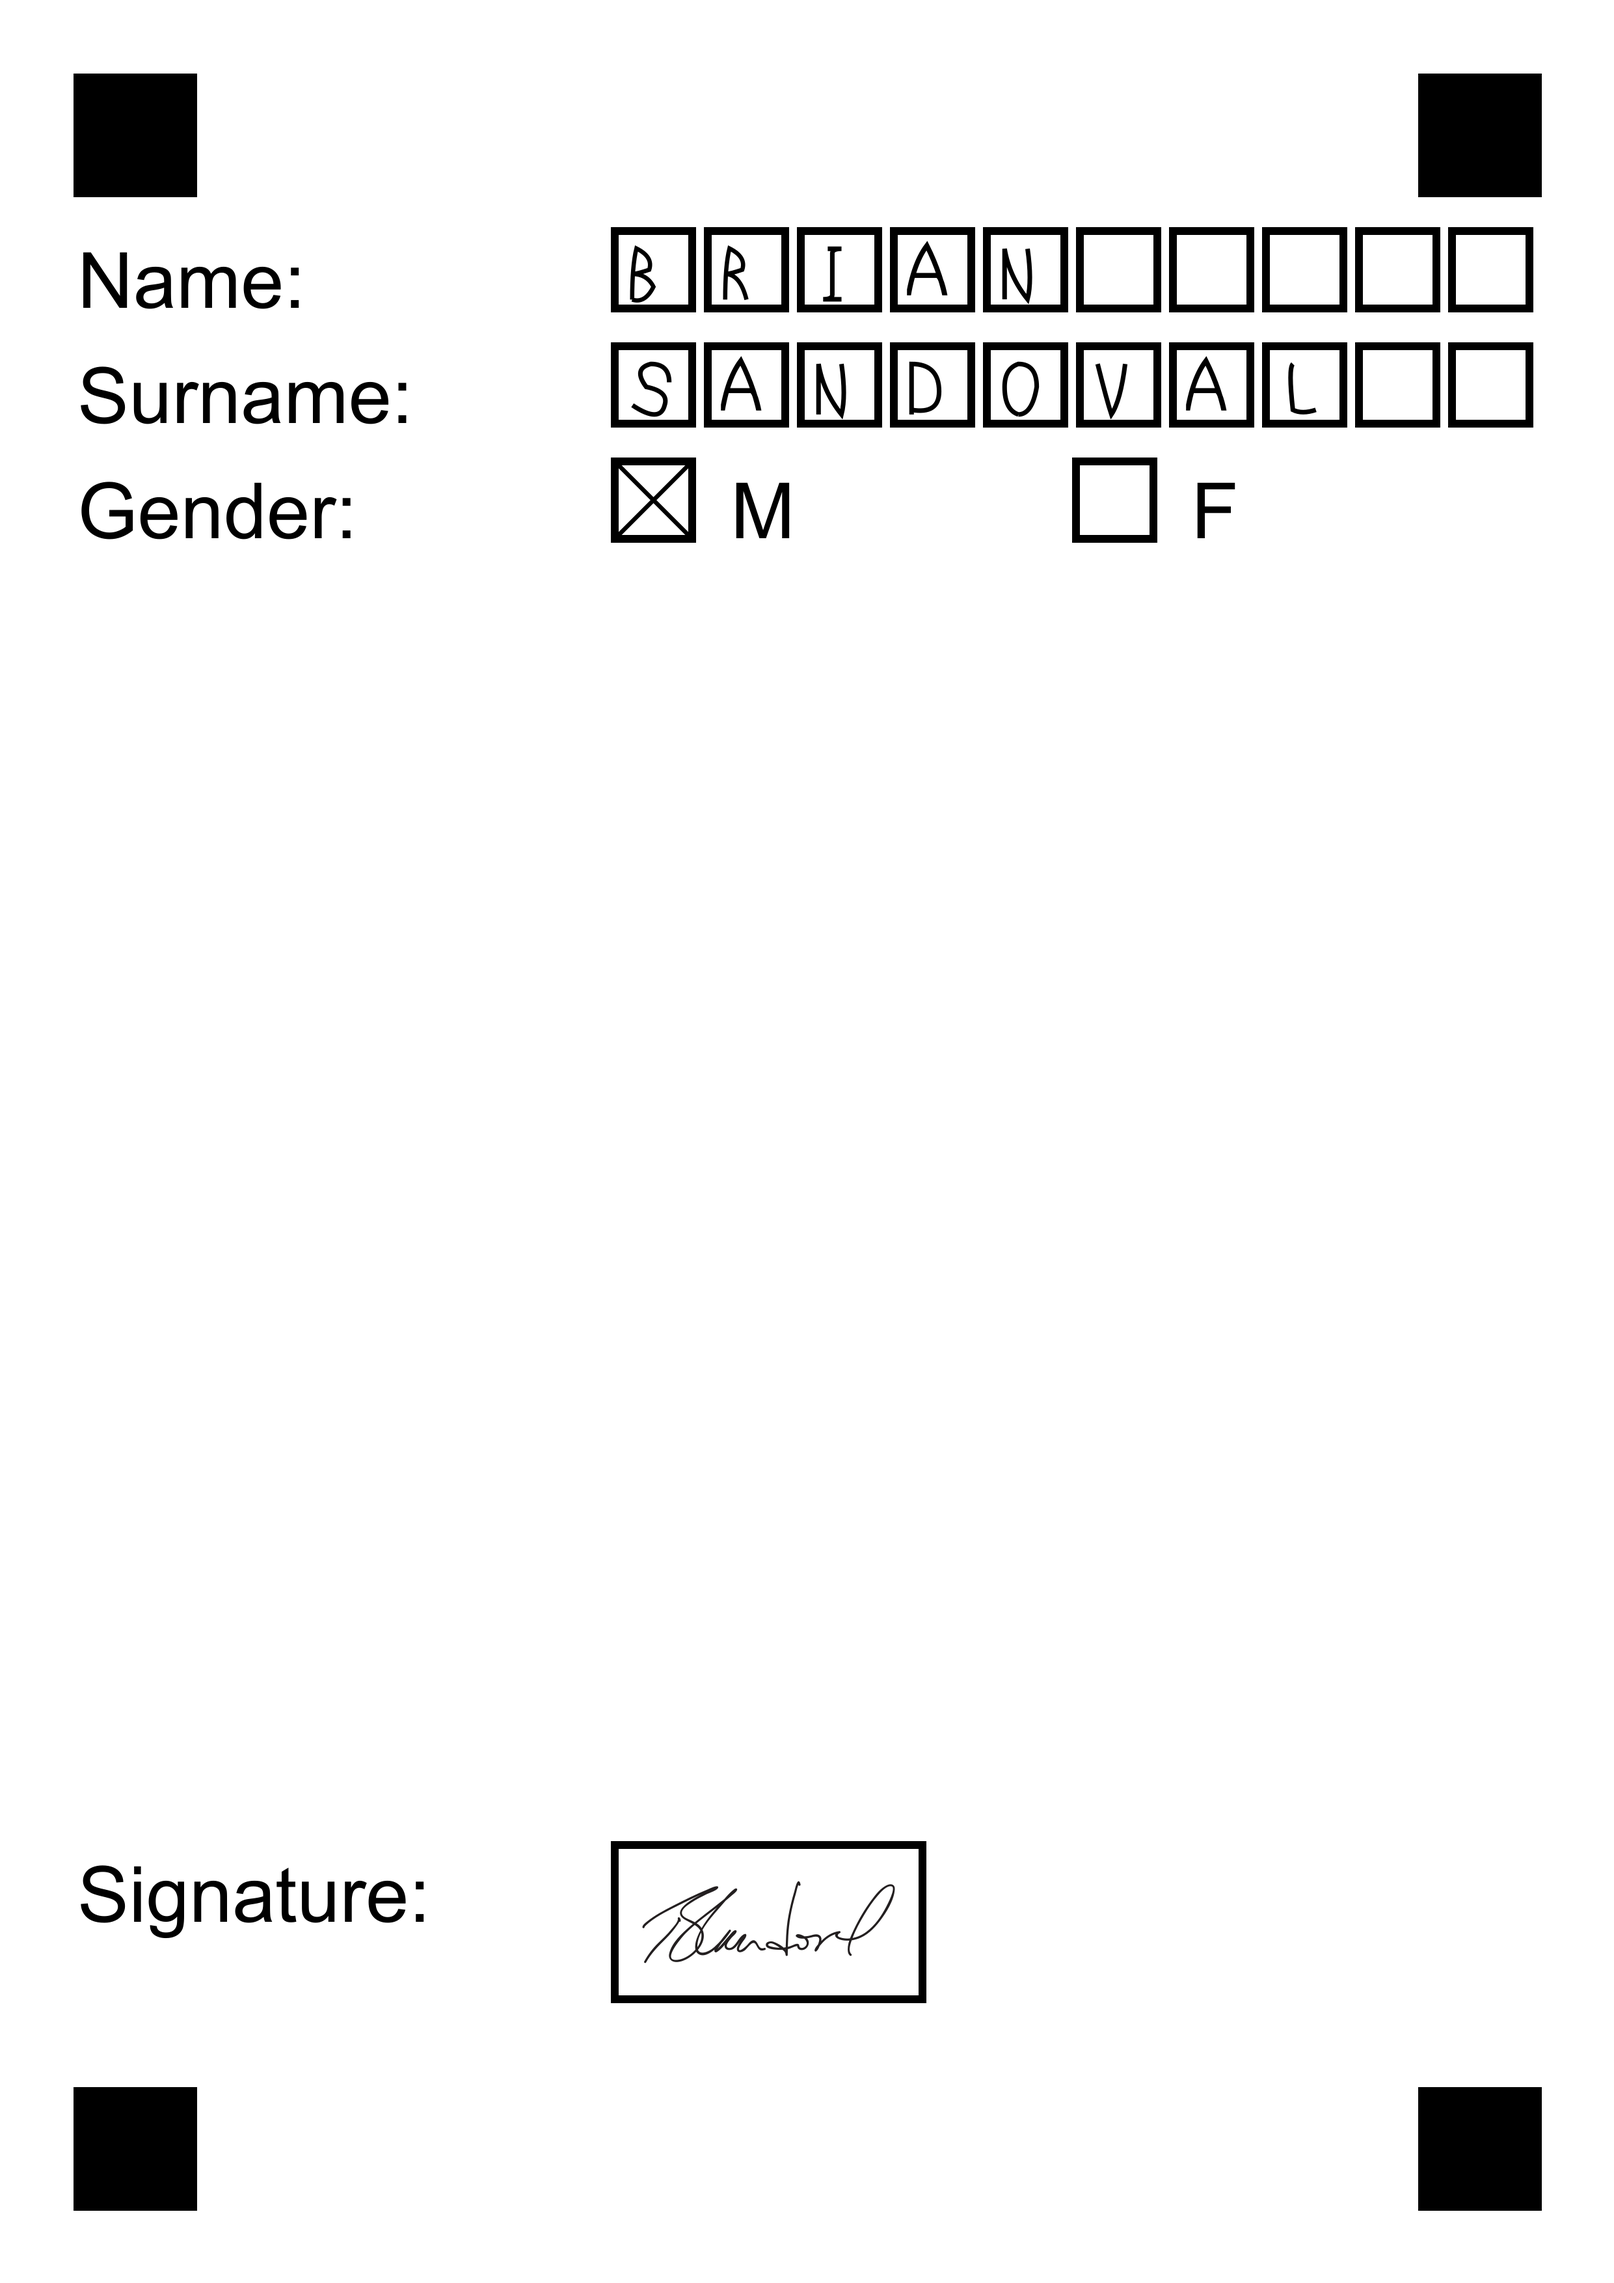
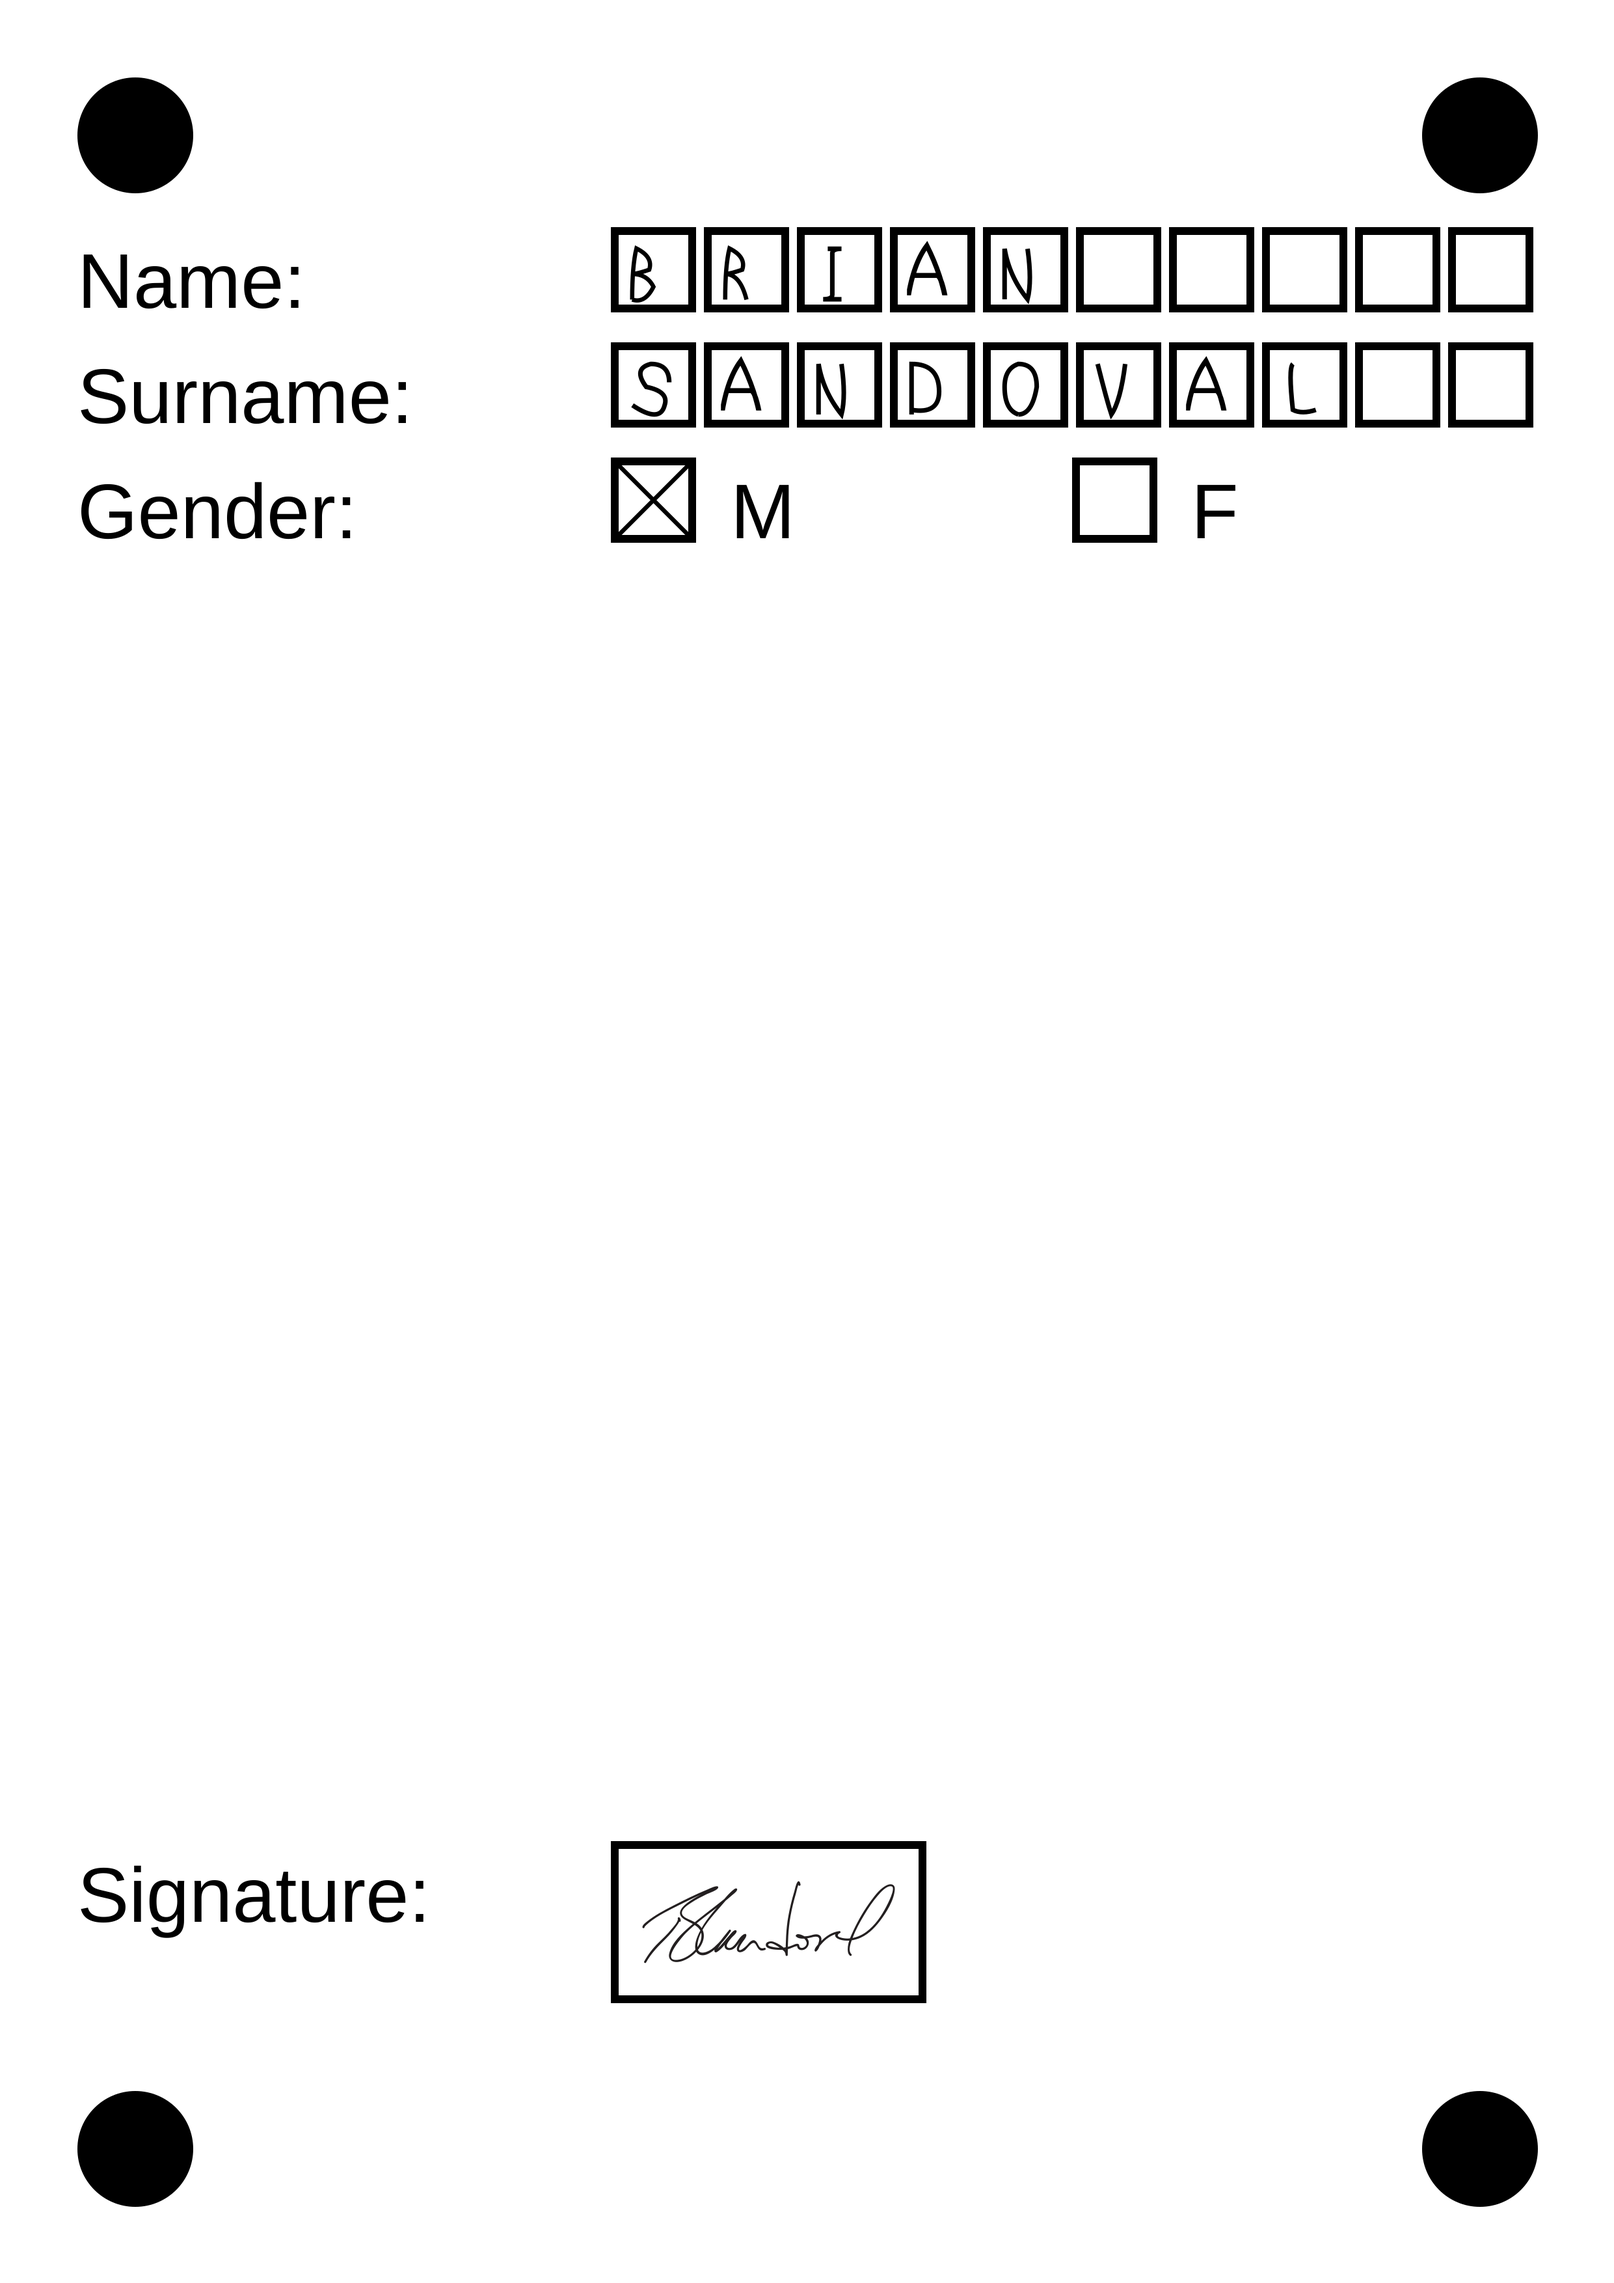
testing with object finding

diff --git a/src/image_handler.ts b/src/image_handler.ts
@@ -1,0 +1,111 @@
+export class ImageHandler {
+    constructor (
+        public width: number,
+        public height: number,
+        public data: Buffer,
+    ) {}
+
+    get_pixel ( x: number, y: number ) {
+        return this.data[x + y * this.width];
+    }
+
+    get_neighbours ( pos: number ) {
+        const ret: Array<number> = [];
+        // if ( pos % this.width > 0 ) {
+        //     ret.push( pos - 1 );
+        // }
+        // if ( pos % this.width < this.width - 1 ) {
+        //     ret.push( pos + 1 );
+        // }
+        // if ( Math.floor( pos / this.width ) > 0 ) {
+        //     ret.push( pos - this.width );
+        // }
+        // if ( Math.floor( pos / this.width ) < this.height - 1 ) {
+        //     ret.push( pos + this.width );
+        // }
+        for ( let dx = -1; dx <= 1; dx++ ) {
+            for ( let dy = -1; dy <= 1; dy++ ) {
+                if ( pos % this.width + dx >= 0 && pos % this.width + dx < this.width ) {
+                    if ( Math.floor( pos / this.width ) + dy >= 0 && Math.floor( pos / this.width ) + dy < this.height ) {
+                        ret.push( pos + dx + dy * this.width );
+                    }
+                }
+            }
+        }
+        return ret;
+    }
+
+    bfs ( pos: number, state: Array<boolean> ) {
+        const queue: Array<number> = [pos];
+        const fig = [];
+        const border = [];
+        let iter = 0;
+        state[pos] = true;
+        while ( iter != queue.length ) {
+            let is_border = false;
+            for ( const neighbour of this.get_neighbours( queue[iter] ) ) {
+                if ( this.data[neighbour] == 255 ) {
+                    is_border = true;
+                }
+                if ( !state[neighbour] && this.data[neighbour] == 0 ) {
+                    state[neighbour] = true;
+                    queue.push( neighbour );
+                }
+            }
+            if ( this.data[queue[iter]] == 0 ) {
+                fig.push( queue[iter] );
+                if ( is_border ) {
+                    border.push( queue[iter] );
+                }
+            }
+            iter++;
+        }
+        return {
+            figure: fig,
+            border: border,
+            rel: fig.length / border.length,
+        };
+    };
+
+    run_bfs () {
+        const ret = [];
+        const state: Array<boolean> = [];
+        state.length = this.data.length;
+        state.fill( false, 0, state.length );
+        for ( let i = 0; i < this.data.length; i++ ) {
+            if ( this.data[i] == 0 && !state[i] ) {
+                ret.push( this.bfs( i, state ) );
+            }
+        }
+        console.log( ret[0] );
+        for ( const pos of ret[0].figure ) {
+            this.data[pos] = 127;
+        }
+        console.log( ret.length );
+        return ret;
+    }
+
+    get_keypints ( area_rel_threshold: number, count: number ) {
+        const figuers = this.run_bfs();
+        return figuers
+            .filter( ( elem ) => {
+                elem.rel > area_rel_threshold;
+            } )
+            .sort( ( elem1, elem2 ) => {
+                return elem1.figure.length - elem2.figure.length;
+            } )
+            .slice( 0, count )
+            .map( ( elem ) => {
+                let acc_x = 0;
+                let acc_y = 0;
+                for ( const pos of elem.figure ) {
+                    acc_x += pos % this.width;
+                    acc_y += Math.floor( pos / this.width );
+                }
+                return {
+                    x: acc_x / elem.figure.length,
+                    y: acc_y / elem.figure.length,
+                };
+            } );
+    }
+}

diff --git a/src/main.ts b/src/main.ts
@@ -4,6 +4,7 @@ import * as fs from 'fs';
 import { get_svg_scene, scene_cm_to_px } from './scene.svg';
 import { get_scene_def } from './scene.def';
 import { bezier } from './alphabet';
+import { ImageHandler } from './image_handler';
 
 /*
 ( sharp.default( {
@@ -99,5 +100,32 @@ const scene_def: SvgScene = {
         console.log( err );
     } );
 
+    sharp.default( Buffer.from( scene_svg_comic_sans ) ).rotate( 10, { background: 'rgba(255,255,255,255)' } ).png().toFile( './output/rotated_comic_sans_output.png' );
+
+    sharp.default( Buffer.from( scene_svg_comic_sans ) ).resize( Math.floor( scene_def_px.width * 0.8 ) ).png().toFile( './output/resized_comic_sans_output.png' );
+
     sharp.default( Buffer.from( scene_svg_custom_font ) ).png().toFile( './output/custom_font_output.png' );
+
+    const image = sharp.default( Buffer.from( scene_svg_comic_sans ) ).rotate( 10, { background: 'rgba(255,255,255,255)' } ).flatten().grayscale().threshold( 128 ).raw();
+    ( sharp.default( Buffer.from( scene_svg_custom_font ) ) as any ).affine( [[1, 0.3], [0.1, 0.7]], {
+        background: 'white',
+        interpolate: ( sharp as any ).interpolators.nohalo,
+    } ).png().toFile( './output/affine.png' );
+    const image_metadata = await image.metadata();
+    const imag_buffer = await image.toBuffer();
+    // eslint-disable-next-line max-len
+    sharp.default( imag_buffer, { raw: { width: image_metadata.width || scene_def_px.width, height: image_metadata.height || scene_def_px.width, channels: 1 } } ).png().toFile( './output/colored_tes2t.png' );
+    console.log( JSON.stringify( image_metadata, null, 2 ) );
+    console.log( new ImageHandler( image_metadata.width || scene_def_px.width, image_metadata.height || scene_def_px.height, imag_buffer ).get_keypints( 0, 4 ) );
+    console.log( imag_buffer.filter( ( elem ) => {
+        return elem == 255;
+    } ).length );
+    console.log( imag_buffer.filter( ( elem ) => {
+        return elem == 0;
+    } ).length );
+    console.log( imag_buffer.filter( ( elem ) => {
+        return elem > 0;
+    } ).length );
+    // eslint-disable-next-line max-len
+    sharp.default( imag_buffer, { raw: { width: image_metadata.width || scene_def_px.width, height: image_metadata.height || scene_def_px.width, channels: 1 } } ).png().toFile( './output/colored_test.png' );
 } )();

diff --git a/src/scene.def.ts b/src/scene.def.ts
@@ -159,7 +159,8 @@ export async function get_scene_def (): Promise<SvgScene> {
         },
     ];
 
-    const filled_rect = '<rect x="0" y="0" width="100%" height="100%" style="fill:rgb(0,0,0);stroke:rgb(0,0,0)" />';
+    //  const filled_rect = '<rect x="0" y="0" width="100%" height="100%" style="fill:rgb(0,0,0);stroke:rgb(0,0,0)" />';
+    const filled_rect = '<circle cx="50%" cy="50%" r="50%"/>';
     const border_box_def: Array<SvgElement> = [
         {
             name: SVG_ELEMENTS_NAMES.box,
@@ -168,7 +169,7 @@ export async function get_scene_def (): Promise<SvgScene> {
                 pos_y: 1,
                 px_width: 1.5,
                 px_height: 1.5,
-                px_border: 0.1,
+                px_border: 0,
                 body: filled_rect,
             },
         },
@@ -179,7 +180,7 @@ export async function get_scene_def (): Promise<SvgScene> {
                 pos_y: 1,
                 px_width: 1.5,
                 px_height: 1.5,
-                px_border: 0.1,
+                px_border: 0,
                 body: filled_rect,
             },
         },
@@ -190,7 +191,7 @@ export async function get_scene_def (): Promise<SvgScene> {
                 pos_y: 27.2,
                 px_width: 1.5,
                 px_height: 1.5,
-                px_border: 0.1,
+                px_border: 0,
                 body: filled_rect,
             },
         },
@@ -201,7 +202,7 @@ export async function get_scene_def (): Promise<SvgScene> {
                 pos_y: 27.2,
                 px_width: 1.5,
                 px_height: 1.5,
-                px_border: 0.1,
+                px_border: 0,
                 body: filled_rect,
             },
         },
